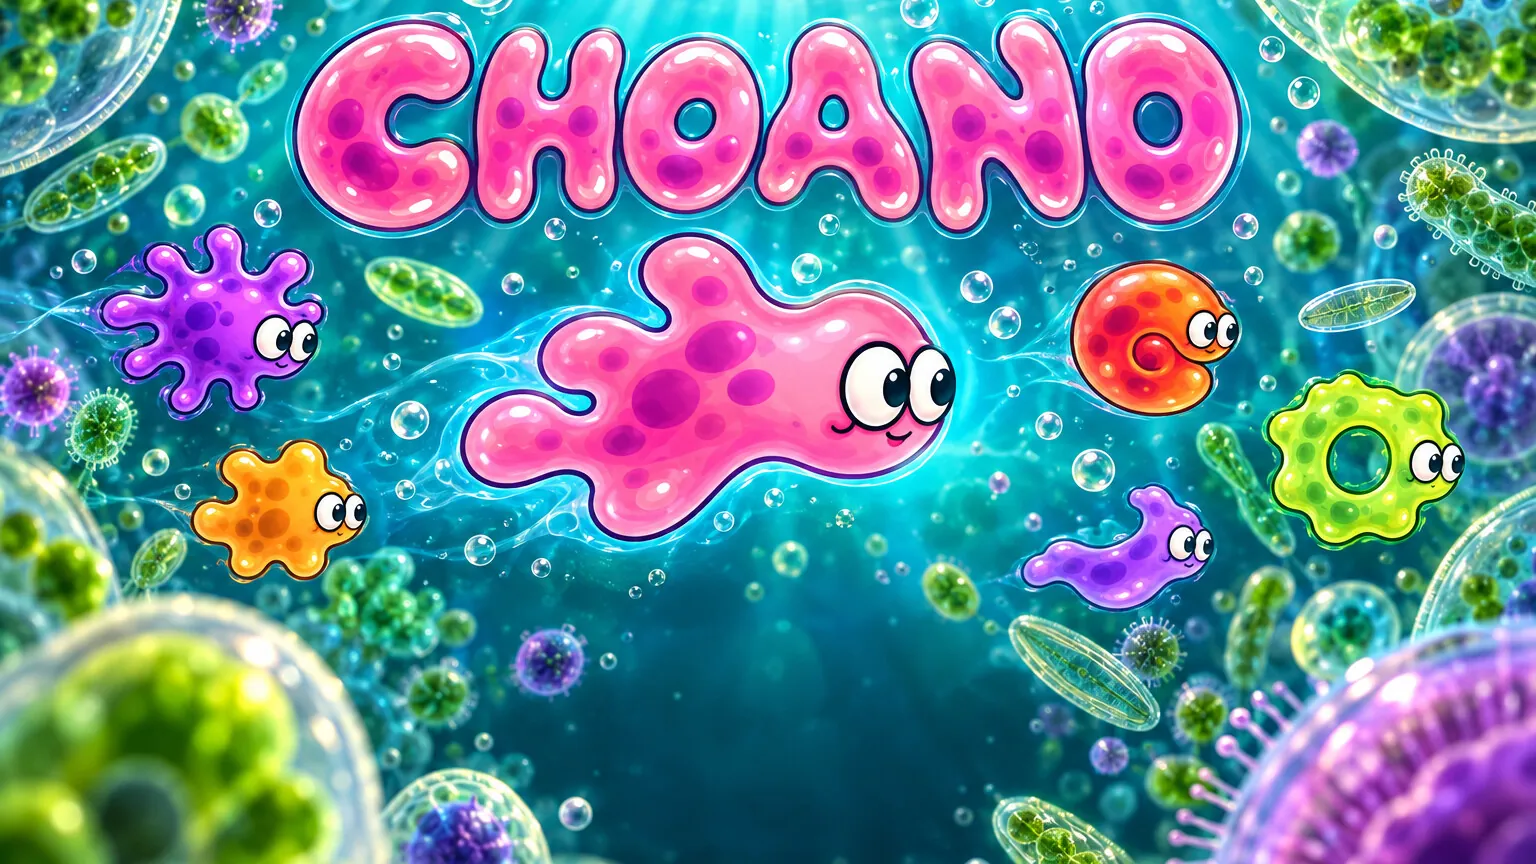
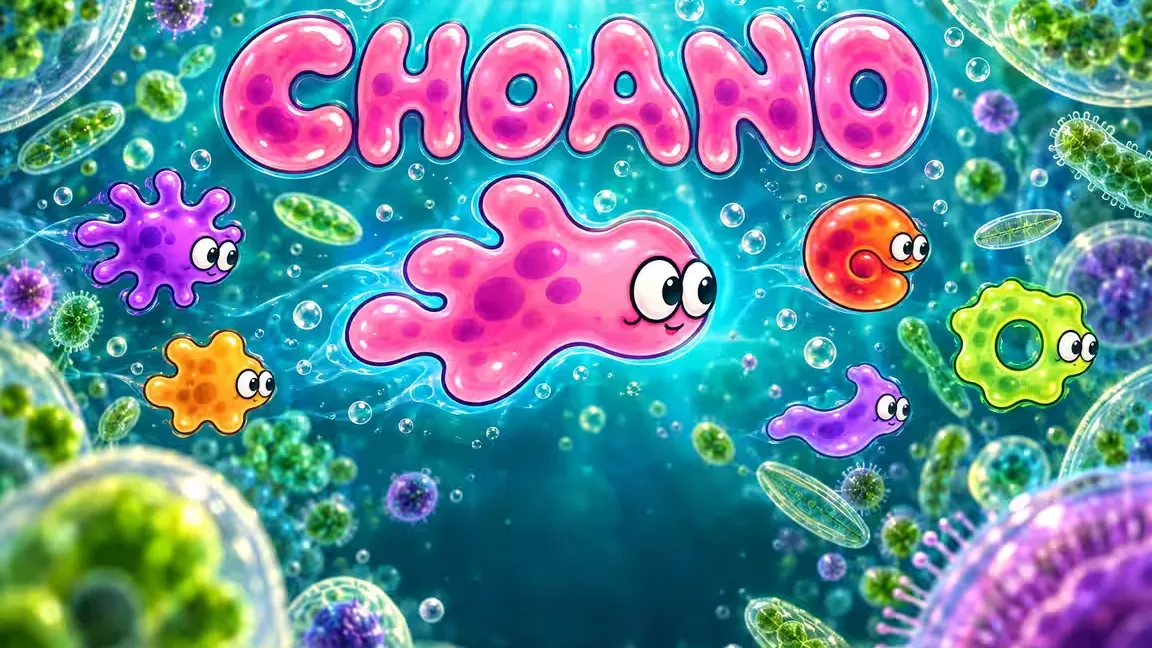
Pin Choano AVIF with CSS theming

diff --git a/tests/collection_test.py b/tests/collection_test.py
@@ -64,8 +64,8 @@ class CollectionTests(unittest.TestCase):
         # Fixed runtime references catch a doubled namespace in the real
         # compiled payload, independently of the packaging declaration.
         assets = bundle_asset_paths(ROOT / "build/games/choano.zx")
-        for path in ("assets/choano/background-inside.png", "assets/choano/organisms-hd.png",
-                     "assets/choano/title-landscape.jpg", "assets/choano/fish/sea.png"):
+        for path in ("assets/choano/background-inside.avif", "assets/choano/organisms-hd.avif",
+                     "assets/choano/title-landscape.avif", "assets/choano/fish/sea.avif"):
             self.assertTrue(path in assets, "Choano runtime image missing from its bundle: " + path)
 
     def setUp(self):

diff --git a/scripts/build-collection.py b/scripts/build-collection.py
@@ -168,7 +168,7 @@ def stage(root, controller, expected_controller_digest, output):
                     if key not in cover:
                         continue
                     relative = Path(cover[key])
-                    if relative.is_absolute() or ".." in relative.parts or relative.suffix not in {".png", ".jpg"}:
+                    if relative.is_absolute() or ".." in relative.parts or relative.suffix not in {".png", ".jpg", ".avif"}:
                         raise ValueError("Invalid cover asset path")
                     contents, suffix = library_art(root, name, key, (app["art_source"] / relative).read_bytes(), app.get("cover_crops", {}).get(key, 0))
                     destination = Path("arcade/covers") / f"{name}-{key}{suffix}"
